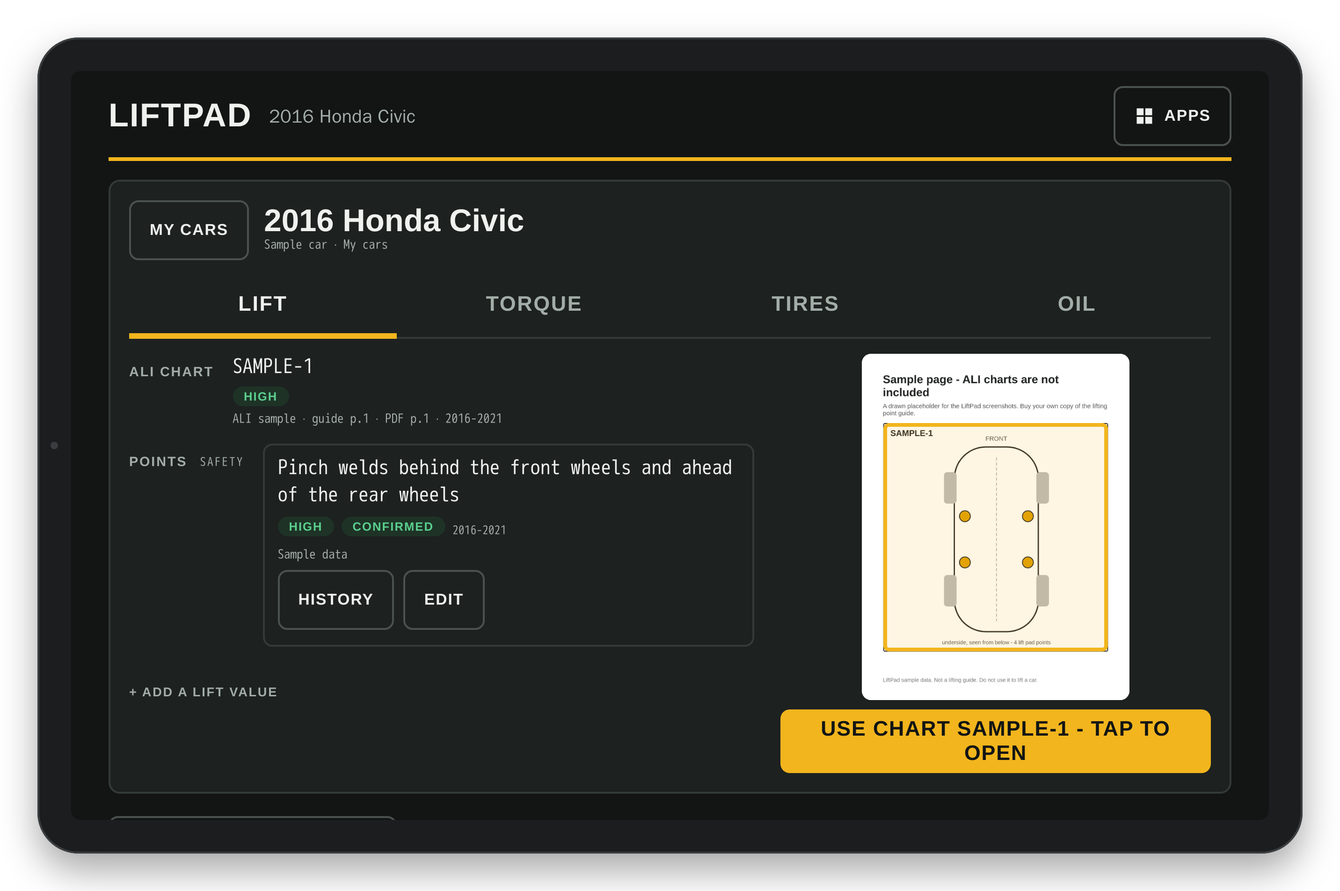
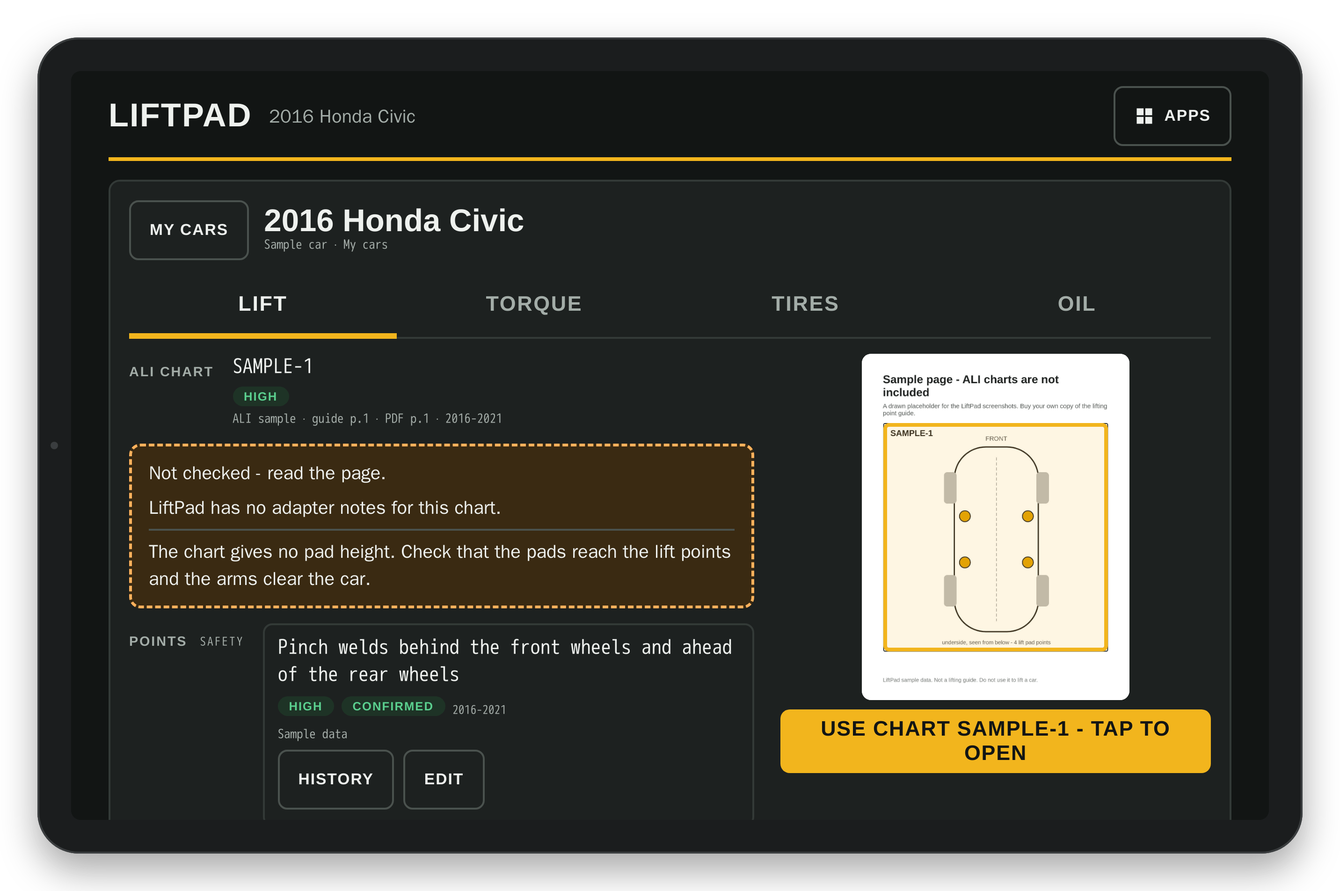
LiftPad: trim edit, chart check button, new Lift screenshot
Exported by the gate from private commit a9e70f1.

diff --git a/src/worker.js b/src/worker.js
@@ -165,8 +165,53 @@ async function vehicleRow(env, id) {
   return env.DB.prepare("SELECT *, strftime('%Y-%m-%dT%H:%M:%fZ', created) created_iso FROM vehicles WHERE id=?").bind(id).first();
 }
 // HANDOFF 12: the adapter notes of one chart, read only (rows come from the import). null = no row for the chart.
+// HANDOFF 13: the label "Checked by Rick" comes from chart_checks (append-only), not from the CSV level. It holds only while the
+// latest row for the chart is a check AND its hash equals the hash of the text now. Else the level is chart_notes.verified (no or ai).
+// A database before migration 0008 has no chart_checks table: the level is the column.
+async function textHash(n) {
+  const s = [n.adapters, n.height_note, n.cautions, n.kit_mark].map(x => x == null ? '' : String(x)).join('\u001f');
+  return [...new Uint8Array(await crypto.subtle.digest('SHA-256', new TextEncoder().encode(s)))].map(x => x.toString(16).padStart(2, '0')).join('');
+}
+async function latestCheck(env, edition, chart) {
+  try { return await env.DB.prepare('SELECT action, text_hash, who, at FROM chart_checks WHERE edition = ? AND chart = ? ORDER BY id DESC LIMIT 1').bind(edition, chart).first() || null; }
+  catch (e) { return null; }
+}
 async function chartNotes(env, edition, chart) {
-  return await env.DB.prepare('SELECT adapters, height_note, cautions, kit_mark, verified FROM chart_notes WHERE edition = ? AND chart = ?').bind(edition, chart).first() || null;
+  const n = await env.DB.prepare('SELECT edition, chart, adapters, height_note, cautions, kit_mark, verified FROM chart_notes WHERE edition = ? AND chart = ?').bind(edition, chart).first();
+  if (!n) return null;
+  n.verified = n.verified === 'ai' ? 'ai' : 'no';
+  n.verified_by = null; n.verified_at = null;
+  if (edition === 'all') return n;   // the fixed line under every block is never checked
+  const k = await latestCheck(env, edition, chart);
+  if (k && k.action === 'check' && k.text_hash === await textHash(n)) { n.verified = 'rick'; n.verified_by = k.who; n.verified_at = k.at; }
+  return n;
+}
+// action: check / undo add one row to chart_checks (nothing is changed or deleted). The self-test tool may also use
+// selftest_edit (change the text of its temp chart) and cleanup (remove its temp edition 'selftest' only).
+async function chartCheck(env, b, me) {
+  const edition = String(b.edition || ''), chart = String(b.chart || ''), action = String(b.action || '');
+  if (!edition || !chart || !['check', 'undo', 'cleanup', 'selftest_edit'].includes(action)) return bad('Need edition, chart and action check or undo');
+  const temp = edition === 'selftest';
+  const rick = !!me.email && !me.token;
+  if (me.processor || !(rick || (me.tool && temp))) return bad('Only Rick can mark a chart as checked', 403);
+  if (action === 'cleanup' || action === 'selftest_edit') {
+    if (!temp || !me.tool) return bad('This action is for the self-test tool on the self-test edition only', 403);
+    if (action === 'cleanup') {
+      await env.DB.batch([env.DB.prepare('DELETE FROM chart_notes WHERE edition = ?').bind(edition), env.DB.prepare('DELETE FROM chart_checks WHERE edition = ?').bind(edition)]);
+      return json({ ok: true });
+    }
+    await env.DB.prepare('UPDATE chart_notes SET adapters = ? WHERE edition = ? AND chart = ?').bind(String(b.adapters || '').slice(0, 200), edition, chart).run();
+    return json({ ok: true, chart_notes: await chartNotes(env, edition, chart) });
+  }
+  if (temp) await env.DB.prepare("INSERT OR IGNORE INTO chart_notes(edition, chart, adapters, verified) VALUES(?, ?, 'selftest', 'no')").bind(edition, chart).run();
+  const raw = await env.DB.prepare('SELECT edition, chart, adapters, height_note, cautions, kit_mark FROM chart_notes WHERE edition = ? AND chart = ?').bind(edition, chart).first();
+  if (!raw) return bad('No adapter notes for this chart', 404);
+  const now = await chartNotes(env, edition, chart), isRick = now.verified === 'rick';
+  if (action === 'check' && isRick) return json({ ok: true, changed: false, chart_notes: now });
+  if (action === 'undo' && !isRick) return bad('This chart is not checked by Rick now, so Undo does not apply', 409);
+  await env.DB.prepare('INSERT INTO chart_checks(edition, chart, text_hash, action, who, at) VALUES(?,?,?,?,?,?)').bind(edition, chart, await textHash(raw), action, me.email || me.device, me.now).run();
+  const history = (await env.DB.prepare('SELECT action, who, at FROM chart_checks WHERE edition = ? AND chart = ? ORDER BY id').bind(edition, chart).all()).results;
+  return json({ ok: true, changed: true, chart_notes: await chartNotes(env, edition, chart), history });
 }
 async function vehicle(env, id, me, touch) {
   const v = await vehicleRow(env, id);
@@ -184,9 +229,10 @@ async function vehicle(env, id, me, touch) {
   v.hidden = hidden(v, me.nowMs); v.mine = v.grp === 'mine' ? 1 : 0;
   return v;
 }
+const TRIM_MAX = 60;
 const modelKey = v => `model:${v.make}|${v.model}|${v.year}`;
 async function fieldByName(env, tab, name) {
-  return env.DB.prepare('SELECT f.id FROM fields f JOIN tabs t ON t.id = f.tab_id WHERE t.name=? AND f.name=?').bind(tab, name).first();
+  return env.DB.prepare('SELECT f.id, f.is_safety FROM fields f JOIN tabs t ON t.id = f.tab_id WHERE t.name=? AND f.name=?').bind(tab, name).first();
 }
 // A new value's id is above every id in vals AND in history, so the id of a deleted value is never
 // given again (a reused id would show the old value's history). Also used by tools/import.py.
@@ -252,6 +298,18 @@ async function queueJob(env, v, kind, wanted, me) {
     .bind(kind, modelKey(v), JSON.stringify(req), 'queued', me.now, me.now).first();
   return r.id;
 }
+// HANDOFF 13: a car that Rick adds, or whose trim he changes, gets a research job by itself for its missing fields. Not for the
+// self-test token (its test cars would cost real research), and not when a job for the car or model is still open (no duplicate).
+// The switch is the Worker variable LP_AUTO_RESEARCH ("1" = on). Default OFF (Rick, 2026-10-24): it is turned on only after the first
+// live run of the research worker on the 2022 Sonata has passed (see the release plan).
+async function openJob(env, v) {
+  return await env.DB.prepare("SELECT id FROM jobs WHERE target IN (?, ?) AND status IN ('queued','claimed') LIMIT 1").bind('car:' + v.id, modelKey(v)).first();
+}
+async function autoResearch(env, v, me) {
+  if (env.LP_AUTO_RESEARCH !== '1' || me.tool || me.processor || await openJob(env, v)) return null;
+  const miss = await missingFields(env, v);
+  return miss.length ? await queueJob(env, v, 'research', miss, me) : null;
+}
 async function claimJob(env, me, onlyId) {
   const until = new Date(me.nowMs + LEASE_MIN * 60e3).toISOString();
   const r = await env.DB.prepare(`UPDATE jobs SET status='claimed', claimed_by=?, lease_until=?, attempts=attempts+1, updated_at=?
@@ -272,6 +330,9 @@ async function jobResult(env, id, b, me) {
     if (!x || !String(x.value || '').trim() || !CONF.includes(x.confidence) || !String(x.source || '').trim()) return bad('Each value needs field, value, confidence and source');
     const f = await fieldByName(env, String(x.tab || ''), String(x.field || ''));
     if (!f) return bad(`Unknown field "${x.field}" on tab "${x.tab}"`);
+    // HANDOFF 13 (Rick, review finding b): the server does not trust the processor's confidence on a safety field. High needs a source
+    // that cites a page ("p.7-16", "p. 12", "PDF p.25"). Without it the whole result is refused and the job stays claimed.
+    if (f.is_safety && x.confidence === 'High' && !/\bp\.\s*\d/i.test(String(x.source))) return bad(`High on the safety field "${x.field}" needs a source that cites a page (p.)`);
     stmts.push(...insertValueStmts(env, { field_id: f.id, scope: 'model', make: rq.make, model: rq.model, year_from: rq.year, year_to: rq.year,
       value: String(x.value).trim(), confidence: x.confidence, source: x.source, note: x.note, status: 'proposed' }, me));
   }
@@ -287,7 +348,7 @@ export default {
     if (!p.startsWith('/api/')) return env.ASSETS.fetch(req);
     try {
       const me = await who(req, env);
-      if (p === '/api/health') { const n = await env.DB.prepare("SELECT (SELECT count(*) FROM ali_index) a, (SELECT count(*) FROM classics) c, (SELECT count(*) FROM vehicles) v, (SELECT count(*) FROM makes) m, (SELECT count(*) FROM vals) vals, (SELECT count(*) FROM vals WHERE status='proposed') proposed, (SELECT count(*) FROM jobs WHERE status IN ('queued','claimed')) jobs, (SELECT count(*) FROM ali_pages WHERE status='ok') pages, (SELECT count(*) FROM make_defaults) defaults, (SELECT count(*) FROM thread_ranges) ranges, (SELECT max(id) FROM schema_migrations) schema").first(); return json({ ok: true, ...n }); }
+      if (p === '/api/health') { const n = await env.DB.prepare("SELECT (SELECT count(*) FROM ali_index) a, (SELECT count(*) FROM classics) c, (SELECT count(*) FROM vehicles) v, (SELECT count(*) FROM makes) m, (SELECT count(*) FROM vals) vals, (SELECT count(*) FROM vals WHERE status='proposed') proposed, (SELECT count(*) FROM jobs WHERE status IN ('queued','claimed')) jobs, (SELECT count(*) FROM ali_pages WHERE status='ok') pages, (SELECT count(*) FROM make_defaults) defaults, (SELECT count(*) FROM thread_ranges) ranges, (SELECT max(id) FROM schema_migrations) schema").first(); return json({ ok: true, ...n, auto_research: env.LP_AUTO_RESEARCH === '1' ? 1 : 0 }); }
       // ALI page images (decision 4): the list from ali_pages, and each image from the private bucket.
       if (p === '/api/ali/pages' && m === 'GET') {
         const ed = url.searchParams.get('edition');
@@ -303,6 +364,9 @@ export default {
         const h = { 'content-type': 'image/jpeg', 'content-length': String(o.size), 'cache-control': 'private, max-age=604800', etag: o.httpEtag };
         return new Response(m === 'HEAD' ? null : o.body, { headers: h });
       }
+      // HANDOFF 13: "I checked this chart" and "Undo". Only Rick's own Access login (an email, no service token) may do it.
+      // The self-test tool token may do it only on the temp edition 'selftest', which it creates and removes itself.
+      if (p === '/api/chart-checks' && m === 'POST') return chartCheck(env, await req.json(), me);
       if (p === '/api/ali/boxes' && m === 'PUT') return setBox(env, await req.json(), me);
       if (p === '/api/ali/boxes' && m === 'DELETE') {
         if (me.processor) return bad('The processor cannot change chart boxes', 403);
@@ -373,14 +437,27 @@ export default {
         const grp = GROUPS.includes(b.grp) ? b.grp : (b.mine === true ? 'mine' : 'visitor');
         const r = await env.DB.prepare('INSERT INTO vehicles(year, make, model, trim, vin, mine, grp, last_seen) VALUES(?,?,?,?,?,?,?,?) RETURNING id')
           .bind(year, b.make, b.model, b.trim || '', b.vin || '', grp === 'mine' ? 1 : 0, grp, me.now).first();
+        await autoResearch(env, await vehicleRow(env, r.id), me);
         return json(await vehicle(env, r.id, me, false), 201);
       }
       let mm = p.match(/^\/api\/vehicles\/(\d+)$/);
       // Decision 11: the VIN is on the car record only and goes to NHTSA only - never to the processor.
-      if (mm && m === 'GET') { const v = await vehicle(env, +mm[1], me, url.searchParams.get('peek') !== '1'); if (v && me.processor) { delete v.vin; delete v.chart_notes; delete v.chart_notes_footer; } return v ? json(v) : bad('Car not found', 404); }
+      if (mm && m === 'GET') { const v = await vehicle(env, +mm[1], me, url.searchParams.get('peek') !== '1'); if (v && me.processor) { delete v.vin; delete v.notes; delete v.chart_notes; delete v.chart_notes_footer; } return v ? json(v) : bad('Car not found', 404); }
       if (mm && m === 'PATCH') {
         const b = await req.json(); const v = await vehicleRow(env, +mm[1]);
         if (!v) return bad('Car not found', 404);
+        // HANDOFF 13: Rick edits the trim. The change is logged as a dated line in vehicles.notes (no new table);
+        // the processor never reads that column and never changes the trim.
+        if ('trim' in b && !('grp' in b) && !('vin' in b)) {
+          if (me.processor) return bad('The processor cannot change a trim', 403);
+          const trim = String(b.trim || '').trim();
+          if (trim.length > TRIM_MAX || /[\u0000-\u001f]/.test(trim)) return bad(`A trim has at most ${TRIM_MAX} characters and no control characters`);
+          if (trim === (v.trim || '')) return json({ ok: true, trim, changed: false });
+          const line = `${me.now.slice(0, 10)} trim "${v.trim || ''}" -> "${trim}" (${me.device})`;
+          await env.DB.prepare("UPDATE vehicles SET trim=?, notes=CASE WHEN notes IS NULL OR notes='' THEN ? ELSE notes || char(10) || ? END WHERE id=?").bind(trim, line, line, v.id).run();
+          const research_job = await autoResearch(env, { ...v, trim }, me);
+          return json({ ok: true, trim, changed: true, research_job });
+        }
         if ('vin' in b && !('grp' in b)) {
           if (me.processor) return bad('The processor cannot change a VIN', 403);
           const vin = String(b.vin || '').trim().toUpperCase();
@@ -392,7 +469,7 @@ export default {
         await env.DB.prepare('UPDATE vehicles SET grp=?, mine=? WHERE id=?').bind(b.grp, b.grp === 'mine' ? 1 : 0, v.id).run();
         let job = null;
         // Decision 5: marking a car Frequent queues a workup for every missing field.
-        if (b.grp === 'frequent' && v.grp !== 'frequent') { const miss = await missingFields(env, v); if (miss.length) job = await queueJob(env, v, 'workup', miss, me); }
+        if (b.grp === 'frequent' && v.grp !== 'frequent' && !await openJob(env, v)) { const miss = await missingFields(env, v); if (miss.length) job = await queueJob(env, v, 'workup', miss, me); }
         return json({ ok: true, workup_job: job });
       }
       if (mm && m === 'DELETE') {
@@ -477,6 +554,14 @@ export default {
       }
       mm = p.match(/^\/api\/jobs\/(\d+)\/result$/);
       if (mm && m === 'POST') return jobResult(env, +mm[1], await req.json(), me);
+      // HANDOFF 13: the research worker keeps a long job: renew the lease before it runs out (same claimer, lease still valid).
+      mm = p.match(/^\/api\/jobs\/(\d+)\/renew$/);
+      if (mm && m === 'POST') {
+        const until = new Date(me.nowMs + LEASE_MIN * 60e3).toISOString();
+        const r = await env.DB.prepare("UPDATE jobs SET lease_until=?, updated_at=? WHERE id=? AND status='claimed' AND claimed_by=? AND lease_until > ? RETURNING id, lease_until")
+          .bind(until, me.now, +mm[1], me.token, me.now).first();
+        return r ? json(r) : bad('This job is not claimed by you, or the lease ran out. Claim it again.', 409);
+      }
       mm = p.match(/^\/api\/jobs\/(\d+)\/fail$/);
       if (mm && m === 'POST') {
         const b = await req.json().catch(() => ({}));

diff --git a/test/selftest.js b/test/selftest.js
@@ -375,6 +375,84 @@ await t('VIN: a bad VIN is refused, a good one is saved; the processor never see
   if (hasProc) { const pv = (await call(`/api/vehicles/${car}?peek=1`, { as: 'proc' })).d; ok(pv && !('vin' in pv), 'the processor got the VIN'); }
   ok((await call(`/api/vehicles/${car}`, { method: 'PATCH', body: { vin: '' } })).s === 200, 'clear');
 });
+// HANDOFF 13: Rick edits the trim; the change is logged with its date; the processor can neither change it nor read the log.
+await t('trim edit: saved, logged, same value is no change, too long refused; the processor gets 403 and no notes', async () => {
+  const r1 = await call(`/api/vehicles/${car}`, { method: 'PATCH', body: { trim: '  SELFTEST EDIT  ' } }); ok(r1.s === 200 && r1.d.trim === 'SELFTEST EDIT' && r1.d.changed === true, JSON.stringify(r1.d));
+  const v = (await call(`/api/vehicles/${car}?peek=1`)).d; ok(v.trim === 'SELFTEST EDIT', 'trim not saved: ' + v.trim);
+  ok(/^\d{4}-\d\d-\d\d trim ".*" -> "SELFTEST EDIT"/m.test(v.notes || ''), 'no dated log line: ' + JSON.stringify(v.notes));
+  const r2 = await call(`/api/vehicles/${car}`, { method: 'PATCH', body: { trim: 'SELFTEST EDIT' } }); ok(r2.s === 200 && r2.d.changed === false, 'same trim made a change');
+  ok(((await call(`/api/vehicles/${car}?peek=1`)).d.notes || '').split('\n').length === (v.notes || '').split('\n').length, 'same trim added a log line');
+  ok((await call(`/api/vehicles/${car}`, { method: 'PATCH', body: { trim: 'x'.repeat(61) } })).s === 400, 'a 61-character trim was accepted');
+  if (hasProc) {
+    ok((await call(`/api/vehicles/${car}`, { as: 'proc', method: 'PATCH', body: { trim: 'PROC' } })).s === 403, 'the processor changed the trim');
+    const pv = (await call(`/api/vehicles/${car}?peek=1`, { as: 'proc' })).d; ok(pv && !('notes' in pv), 'the processor got the notes');
+  }
+  ok((await call(`/api/vehicles/${car}`, { method: 'PATCH', body: { trim: 'SELFTEST' } })).s === 200, 'restore');
+});
+// HANDOFF 13: a car that Rick adds, or whose trim he changes, gets a research job by itself (his own login: a phone here). The self-test
+// token never does (its test cars would cost real research); an open job for the model stops a second one. Local run only.
+// The switch (Worker variable LP_AUTO_RESEARCH, default OFF) is reported by /api/health. Live must stay 0 until Rick turns it on.
+await t('auto research switch: /api/health reports it as 0 or 1', async () => { ok(health.auto_research === 0 || health.auto_research === 1, 'auto_research: ' + JSON.stringify(health.auto_research)); return 'auto_research ' + health.auto_research; });
+if (LOCAL && hasProc && health.auto_research === 0) await t('auto research OFF (the default): Rick adds a car and changes its trim -> no job', async () => {
+  const bad2 = [], ids = [];
+  try {
+    const a = await call('/api/vehicles', { as: 'phone', method: 'POST', body: { year: 1973, make: 'AMC', model: 'Hornet Off', trim: 'SELFTEST OFF', grp: 'visitor' } }); ids.push(a.d.id);
+    if (!(a.s === 201 && a.d.jobs.length === 0)) bad2.push('a job was made with the switch off: ' + JSON.stringify(a.d.jobs));
+    const t1 = await call(`/api/vehicles/${a.d.id}`, { as: 'phone', method: 'PATCH', body: { trim: 'SELFTEST OFF 2' } });
+    if (!(t1.s === 200 && t1.d.changed === true && t1.d.research_job === null)) bad2.push('a trim change made a job: ' + JSON.stringify(t1.d));
+  } finally { for (const id of ids) { const d = await call('/api/vehicles/' + id, { method: 'DELETE' }); if (d.s !== 200) bad2.push('cleanup ' + d.s); } }
+  ok(!bad2.length, bad2.join('; '));
+});
+if (LOCAL && hasProc && health.auto_research === 1) await t('auto research ON: Rick adds a car or changes its trim -> one research job; the tool token -> none; no duplicate', async () => {
+  const bad2 = [], ids = [], mk = trim => ({ year: 1973, make: 'AMC', model: 'Hornet Auto', trim, grp: 'visitor' });
+  const jobsOf = async id => (await call(`/api/vehicles/${id}?peek=1`)).d.jobs;
+  try {
+    const a = await call('/api/vehicles', { as: 'phone', method: 'POST', body: mk('SELFTEST AUTO') }); ids.push(a.d.id);
+    if (!(a.s === 201 && a.d.jobs.length === 1 && a.d.jobs[0].kind === 'research' && a.d.jobs[0].status === 'queued')) bad2.push('Rick adds a car: ' + a.s + ' ' + JSON.stringify(a.d.jobs));
+    const t1 = await call(`/api/vehicles/${a.d.id}`, { as: 'phone', method: 'PATCH', body: { trim: 'SELFTEST AUTO 2' } });
+    if (!(t1.s === 200 && t1.d.changed === true && t1.d.research_job === null)) bad2.push('open job, trim change made a second job: ' + JSON.stringify(t1.d));
+    if ((await jobsOf(a.d.id)).length !== 1) bad2.push('job count after the trim change: ' + (await jobsOf(a.d.id)).length);
+    const b = await call('/api/vehicles', { method: 'POST', body: { ...mk('SELFTEST AUTO TOOL'), model: 'Hornet Tool' } }); ids.push(b.d.id);
+    if (!(b.s === 201 && b.d.jobs.length === 0)) bad2.push('the tool token got a job: ' + JSON.stringify(b.d.jobs));
+    const t2 = await call(`/api/vehicles/${b.d.id}`, { as: 'phone', method: 'PATCH', body: { trim: 'SELFTEST AUTO TOOL 2' } });
+    if (!(t2.s === 200 && Number.isInteger(t2.d.research_job))) bad2.push('Rick changes the trim, no open job: ' + JSON.stringify(t2.d));
+    const t3 = await call(`/api/vehicles/${b.d.id}`, { as: 'phone', method: 'PATCH', body: { trim: 'SELFTEST AUTO TOOL 2' } });
+    if (!(t3.s === 200 && t3.d.changed === false && t3.d.research_job === undefined)) bad2.push('same trim made a job: ' + JSON.stringify(t3.d));
+    const tj = await call(`/api/vehicles/${b.d.id}`, { method: 'PATCH', body: { trim: 'SELFTEST AUTO TOOL 3' } });
+    if (!(tj.s === 200 && tj.d.research_job === null)) bad2.push('tool token trim change made a job: ' + JSON.stringify(tj.d));
+  } finally {
+    for (const id of ids) {
+      for (const j of await jobsOf(id).catch(() => [])) { await call('/api/jobs/claim', { as: 'proc', method: 'POST', body: { only_id: j.id } }); await call(`/api/jobs/${j.id}/fail`, { as: 'proc', method: 'POST', body: { error: 'selftest cleanup' } }); }
+      const d = await call('/api/vehicles/' + id, { method: 'DELETE' }); if (d.s !== 200) bad2.push('cleanup ' + d.s);
+    }
+  }
+  ok(!bad2.length, bad2.join('; '));
+});
+// HANDOFF 13: "I checked this chart" and "Undo". Rick's login (a phone here) can do it; the tool token only on the temp edition
+// 'selftest'; the processor never. The temp row is made and removed by the endpoint itself.
+if (health.schema >= '0008') {
+  const CK = { edition: 'selftest', chart: 'selftest-a' }, ck = (action, o = {}) => call('/api/chart-checks', { method: 'POST', body: { ...CK, action }, ...o });
+  await t('chart check: check, undo, who and when; refused for others', async () => {
+    const bad2 = [];
+    try {
+      const a = await ck('check'); if (!(a.s === 200 && a.d.chart_notes.verified === 'rick' && a.d.chart_notes.verified_by && a.d.chart_notes.verified_at && a.d.history.length === 1)) bad2.push('check: ' + a.s + ' ' + JSON.stringify(a.d));
+      const a2 = await ck('check'); if (!(a2.s === 200 && a2.d.changed === false)) bad2.push('second check: ' + JSON.stringify(a2.d));
+      const u = await ck('undo'); if (!(u.s === 200 && u.d.chart_notes.verified === 'no' && u.d.chart_notes.verified_by === null && u.d.history.map(h => h.action).join() === 'check,undo')) bad2.push('undo: ' + u.s + ' ' + JSON.stringify(u.d));
+      const u2 = await ck('undo'); if (u2.s !== 409) bad2.push('second undo: ' + u2.s);
+      if (hasProc) { const p = await ck('check', { as: 'proc' }); if (p.s !== 403) bad2.push('processor: ' + p.s); }
+      const real = await call('/api/chart-checks', { method: 'POST', body: { edition: '2026', chart: 'any-chart', action: 'check' } }); if (real.s !== 403) bad2.push('tool token on a real chart: ' + real.s);
+      if (LOCAL) {
+        // Rick's own login (a phone here): who is his email; a changed text makes the label fall back by itself; history is kept.
+        const ph = await ck('check', { as: 'phone' }); if (!(ph.s === 200 && ph.d.chart_notes.verified === 'rick' && ph.d.chart_notes.verified_by === 'owner@example.com')) bad2.push('phone check: ' + ph.s + ' ' + JSON.stringify(ph.d));
+        const ed = await ck('selftest_edit', { body: { ...CK, action: 'selftest_edit', adapters: 'selftest text changed' } }); if (!(ed.s === 200 && ed.d.chart_notes.verified === 'no')) bad2.push('text change did not drop the label: ' + ed.s + ' ' + JSON.stringify(ed.d));
+        const ph2 = await ck('check', { as: 'phone' }); if (!(ph2.s === 200 && ph2.d.chart_notes.verified === 'rick' && ph2.d.history.length === 4)) bad2.push('check after the change: ' + ph2.s + ' ' + JSON.stringify(ph2.d));
+        const pu = await ck('undo', { as: 'phone' }); if (!(pu.s === 200 && pu.d.chart_notes.verified === 'no' && pu.d.history.map(h => h.action).join() === 'check,undo,check,check,undo')) bad2.push('phone undo: ' + pu.s + ' ' + JSON.stringify(pu.d.history));
+        const pe = await ck('selftest_edit', { as: 'phone', body: { ...CK, action: 'selftest_edit', adapters: 'x' } }); if (pe.s !== 403) bad2.push('phone ran a self-test action: ' + pe.s);
+      }
+    } finally { const c = await ck('cleanup'); if (c.s !== 200) bad2.push('cleanup ' + c.s); }
+    ok(!bad2.length, bad2.join('; '));
+  });
+} else skip('chart check: check, undo, who and when; refused for others', 'schema before 0008');
 // Decision 9: the make's typical value and the thread range; a torque outside the range is flagged.
 if (health.defaults > 0 && health.ranges > 0) {
   await t('the car gets the typical value for its make and the range for that thread', async () => {
@@ -416,6 +494,11 @@ if (hasProc) {
   await t('lease expiry: after 10 minutes (test clock) the job is claimed again', async () => {
     const { d } = await call('/api/jobs/claim', { as: 'proc', now: plus(11 * MIN), method: 'POST', body: { only_id: job } }); ok(d.id === job && d.attempts === 2 && d.lease_until > lease, JSON.stringify(d));
   });
+  await t('lease renew (HANDOFF 13): extends a valid lease, refused after expiry, refused for the self-test tool', async () => {
+    const r1 = await call(`/api/jobs/${job}/renew`, { as: 'proc', now: plus(15 * MIN), method: 'POST', body: {} }); ok(r1.s === 200 && r1.d.lease_until > plus(24 * MIN), JSON.stringify(r1.d));
+    const r2 = await call(`/api/jobs/${job}/renew`, { as: 'proc', now: plus(60 * MIN), method: 'POST', body: {} }); ok(r2.s === 409, 'expired lease renewed: ' + r2.s);
+    const r3 = await call(`/api/jobs/${job}/renew`, { method: 'POST', body: {} }); ok(r3.s === 403, 'tool token renewed: ' + r3.s);
+  });
   await t('result: values come back proposed, with history, job done', async () => {
     const r = await call(`/api/jobs/${job}/result`, { as: 'proc', method: 'POST', body: { values: [{ tab: 'tires', field: 'Size', value: 'E78-14 (selftest)', confidence: 'Low', source: 'selftest research' }] } });
     ok(r.s === 200 && r.d.proposed === 1, 'result ' + r.s + ' ' + JSON.stringify(r.d));
@@ -431,8 +514,29 @@ if (hasProc) {
     ok((await call(`/api/jobs/${job2}/fail`, { as: 'proc', method: 'POST', body: { error: 'selftest' } })).s === 200, 'fail');
     ok((await call(`/api/vehicles/${car}?peek=1`)).d.jobs.find(j => j.id === job2)?.status === 'failed', 'not failed');
   });
+  // HANDOFF 13 (Rick): the server refuses High on a safety field from the processor unless the source cites a page ("p.").
+  await t('result: High on a safety field needs a source with a page (p.); the whole result is refused otherwise', async () => {
+    const job3 = (await call('/api/jobs', { method: 'POST', body: { vehicle_id: car, kind: 'research', fields: [{ tab: 'torque', field: 'Torque' }] } })).d.id;
+    ok((await call('/api/jobs/claim', { as: 'proc', method: 'POST', body: { only_id: job3 } })).d.id === job3, 'claim');
+    const mk = (conf, source) => ({ values: [{ tab: 'torque', field: 'Torque', value: '75 ft-lb (102 Nm)', confidence: conf, source }] });
+    const bad1 = await call(`/api/jobs/${job3}/result`, { as: 'proc', method: 'POST', body: mk('High', 'selftest research, no page') });
+    ok(bad1.s === 400 && /page/.test(bad1.d.error || ''), 'High without a page: ' + bad1.s + ' ' + JSON.stringify(bad1.d));
+    ok(!(await call(`/api/vehicles/${car}?peek=1`)).d.values.some(y => y.source === 'selftest research, no page'), 'a value was stored by the refused result');
+    const web = await call(`/api/jobs/${job3}/result`, { as: 'proc', method: 'POST', body: mk('High', 'https://example.com/p.html') });
+    ok(web.s === 400, 'High with a URL that only looks like a page: ' + web.s);
+    const low = await call(`/api/jobs/${job3}/result`, { as: 'proc', method: 'POST', body: { values: [{ tab: 'torque', field: 'Socket', value: '19 mm (selftest)', confidence: 'High', source: 'selftest research, no page' }] } });
+    ok(low.s === 200, 'High on a field that is not a safety field: ' + low.s + ' ' + JSON.stringify(low.d));
+    const j4 = (await call('/api/jobs', { method: 'POST', body: { vehicle_id: car, kind: 'research', fields: [{ tab: 'torque', field: 'Torque' }] } })).d.id;
+    ok((await call('/api/jobs/claim', { as: 'proc', method: 'POST', body: { only_id: j4 } })).d.id === j4, 'claim 4');
+    const good = await call(`/api/jobs/${j4}/result`, { as: 'proc', method: 'POST', body: mk('High', 'Owner manual p.7-16 (selftest)') });
+    ok(good.s === 200 && good.d.proposed === 1, 'High with a page: ' + good.s + ' ' + JSON.stringify(good.d));
+    const v = (await call(`/api/vehicles/${car}?peek=1`)).d.values;
+    for (const y of v.filter(z => /selftest/.test(z.source || '') && z.entered_by === 'processor' && !cleanup.some(c => c[1] === z.id))) cleanup.push(['val', y.id]);
+  });
 } else ['claim: 10-minute lease, request is private', 'a claimed job is not handed out again while its lease runs', 'lease expiry: after 10 minutes (test clock) the job is claimed again',
-  'result: values come back proposed, with history, job done', 'a result for a job that is not claimed is refused', 'fail: a claimed job can be marked failed'].forEach(n => skip(n, 'no processor token given'));
+  'lease renew (HANDOFF 13): extends a valid lease, refused after expiry, refused for the self-test tool',
+  'result: values come back proposed, with history, job done', 'a result for a job that is not claimed is refused', 'fail: a claimed job can be marked failed',
+  'result: High on a safety field needs a source with a page (p.); the whole result is refused otherwise'].forEach(n => skip(n, 'no processor token given'));
 
 // ---------- groups and visitor hiding (decisions 4, 5) ----------
 await t('opening a car sets last_seen; a visitor hides after 30 days (test clock)', async () => {

diff --git a/public/app.js b/public/app.js
@@ -150,7 +150,7 @@ function add() {
   const show = async () => {
     const R = $('#res');
     if (!st.make || !st.year || !st.model) { R.innerHTML = `<h2>${esc([st.year || '', st.make].join(' ').trim() || 'Pick a car')}</h2><p class="note">${st.make ? (st.year ? 'Pick a model.' : 'Type the 4-digit year.') : 'Type a make.'}</p>`; return; }
-    R.innerHTML = `<h2>${st.year} ${esc(st.make)} ${esc(st.model)}</h2><p class="note">${st.chartNote || ''}</p><button class="primary" id="save">Save car</button><p class="err" id="saveerr"></p>`;
+    R.innerHTML = `<h2>${st.year} ${esc(st.make)} ${esc(st.model)}</h2><p class="note">${esc(st.chartNote || '')}</p><button class="primary" id="save">Save car</button><p class="err" id="saveerr"></p>`;
     $('#save').onclick = async () => {
       try { const v = await api('/vehicles', { method: 'POST', body: { ...st, trim: $('#trim').value.trim(), grp: $('#grp [aria-pressed="true"]').dataset.grp } }); location.hash = '#/car/' + v.id; }
       catch (e) { $('#saveerr').textContent = e.message; }
@@ -191,7 +191,12 @@ const VERIFIED = { no: 'Not checked - read the page.', ai: 'AI-checked - the pag
 const FOOT_FALLBACK = 'The chart gives no pad height. Check that the pads reach the lift points and the arms clear the car.';
 const adaptersBlock = (n, foot) => {
   const lv = n && VERIFIED[n.verified] ? n.verified : 'no', stop = !!n && /^Do not use a 2-post/.test(n.kit_mark || '');
-  const lead = `<div class="vlabel"><b>${VERIFIED[lv]}</b></div>`;
+  // HANDOFF 13: "I checked this chart" until Rick has checked it; "Undo" while the check holds (it falls back by itself
+  // when the chart text changes). Who and when come from chart_checks.
+  const byBtn = !!n && lv === 'rick' && !!n.verified_by;
+  const act = !n ? '' : lv !== 'rick' ? `<button class="primary chartcheck" data-act="check" data-ed="${esc(n.edition)}" data-chart="${esc(n.chart)}">I checked this chart</button>`
+    : byBtn ? `<button class="chartcheck" data-act="undo" data-ed="${esc(n.edition)}" data-chart="${esc(n.chart)}">Undo</button>` : '';
+  const lead = `<div class="vlabel"><b>${VERIFIED[lv]}</b>${byBtn ? ` <span class="note">${esc(String(n.verified_at || '').slice(0, 10))}</span>` : ''} ${act}<span class="err chartcheckerr"></span></div>`;
   const end = `<div class="adfoot">${esc(foot || FOOT_FALLBACK)}</div>`;
   if (!n) return { stop: false, html: `<div class="adapters unchecked" data-verified="no">${lead}<div>LiftPad has no adapter notes for this chart.</div>${end}</div>` };
   return { stop, html: `<div class="adapters${lv === 'no' ? ' unchecked' : ''}${stop ? ' stop' : ''}" data-verified="${lv}" data-kit="${stop ? 'stop' : 'note'}">
@@ -277,6 +282,9 @@ async function car(id) {
   </section>
   <div class="row"><button id="research">Research missing values</button>${jobLine}</div>
   <div class="row">${Object.keys(GROUP).filter(g => g !== v.grp).map(g => `<button class="ghost" data-g="${g}">Move to ${GROUP[g]}</button>`).join('')}</div>
+  <div class="card" id="trimbox"><div><span class="lbl">Trim</span> <span class="val" id="trimnow">${esc(v.trim || 'none')}</span></div>
+    <div class="row"><input id="trimin" maxlength="60" autocomplete="off" placeholder="for example SE or Limited" aria-label="Trim" value="${esc(v.trim || '')}"><button id="trimsave">Save trim</button></div>
+    <p class="note">The trim goes into the research request. A change is logged with its date.</p><p class="err" id="trimerr"></p></div>
   <div class="card" id="vinbox"><div><span class="lbl">VIN</span> <span class="val" id="vinnow">${esc(v.vin || 'none')}</span></div>
     <div class="row"><input id="vinin" maxlength="17" autocomplete="off" placeholder="17 characters" aria-label="VIN" style="font-family:var(--mono)" value="${esc(v.vin || '')}"><button id="vinsave">Save VIN</button>${scanButton('vinscan')}</div>
     <p class="note">The VIN stays on this car and goes only to NHTSA, to decode the engine and the EV flag.</p><p class="err" id="vinerr"></p></div>
@@ -286,7 +294,7 @@ async function car(id) {
   document.querySelectorAll('[data-h]').forEach(b => b.onclick = async () => {
     const box = b.closest('dd').querySelector('.hist');
     const h = await api(`/values/${b.dataset.h}/history`);
-    box.innerHTML = `<ol class="src">${h.map(r => `<li>${when(r.at)} · ${esc(r.device)} · ${r.action}${r.old_value != null && r.old_value !== r.new_value ? ` · "${esc(r.old_value)}" → "${esc(r.new_value ?? '')}"` : r.new_value != null ? ` · "${esc(r.new_value)}"` : ''}${r.old_status !== r.new_status ? ` · ${esc(r.old_status ?? '')} → ${esc(r.new_status ?? '')}` : ''}</li>`).join('')}</ol>`;
+    box.innerHTML = `<ol class="src">${h.map(r => `<li>${when(r.at)} · ${esc(r.device)} · ${esc(r.action)}${r.old_value != null && r.old_value !== r.new_value ? ` · "${esc(r.old_value)}" → "${esc(r.new_value ?? '')}"` : r.new_value != null ? ` · "${esc(r.new_value)}"` : ''}${r.old_status !== r.new_status ? ` · ${esc(r.old_status ?? '')} → ${esc(r.new_status ?? '')}` : ''}</li>`).join('')}</ol>`;
   });
   wireValueInputs($('#addspec form'));
   document.querySelectorAll('.links a[data-src]').forEach(a => a.addEventListener('click', () => {
@@ -299,7 +307,10 @@ async function car(id) {
     const s = v.values.find(x => x.id == b.dataset.e); const dd = b.closest('dd'); dd.innerHTML = editForm(s);
     wireForm(dd.querySelector('form'), body => api('/values/' + s.id, { method: 'PATCH', body }).then(() => car(id)), () => api('/values/' + s.id, { method: 'DELETE' }).then(() => car(id)));
   });
-  $('#vinsave').onclick = () => api('/vehicles/' + id, { method: 'PATCH', body: { vin: $('#vinin').value } }).then(() => car(id)).catch(e => { $('#vinerr').textContent = e.message; });
+  document.querySelectorAll('.chartcheck').forEach(b => b.onclick = () => api('/chart-checks', { method: 'POST', body: { edition: b.dataset.ed, chart: b.dataset.chart, action: b.dataset.act } })
+    .then(() => car(id)).catch(e => { b.parentElement.querySelector('.chartcheckerr').textContent = e.message; }));
+  $('#trimsave').onclick =() => api('/vehicles/' + id, { method: 'PATCH', body: { trim: $('#trimin').value } }).then(() => car(id)).catch(e => { $('#trimerr').textContent = e.message; });
+  $('#vinsave').onclick =() => api('/vehicles/' + id, { method: 'PATCH', body: { vin: $('#vinin').value } }).then(() => car(id)).catch(e => { $('#vinerr').textContent = e.message; });
   wireScan('vinscan', vin => { $('#vinin').value = vin; $('#vinerr').textContent = 'VIN read from the photo - check it, then Save VIN.'; }, m => { $('#vinerr').textContent = m; });
   document.querySelectorAll('[data-g]').forEach(b => b.onclick = () => api('/vehicles/' + id, { method: 'PATCH', body: { grp: b.dataset.g } }).then(() => car(id)).catch(fail));
   $('#research').onclick = () => api('/jobs', { method: 'POST', body: { vehicle_id: +id, kind: 'research' } }).then(() => car(id)).catch(e => { $('#delmsg').textContent = e.message; });

diff --git a/public/app.css b/public/app.css
@@ -117,7 +117,8 @@ dd.v-confirmed{border:2px solid var(--line);border-radius:10px;padding:10px 14px
 .tag{font:500 .8rem var(--mono);color:var(--muted);margin-left:8px}
 .warn{border:3px solid var(--warn);background:var(--warn-bg);padding:14px 18px;border-radius:12px}
 .warn.bad{border-color:var(--lo);background:var(--lo-bg)}
-.adapters{display:grid;gap:8px;border:3px solid var(--line2);border-radius:12px;padding:14px 18px}   /* HANDOFF 12: adapter notes of the chart; no buttons, body-size text */
+.adapters{display:grid;gap:8px;border:3px solid var(--line2);border-radius:12px;padding:14px 18px}   /* HANDOFF 12: adapter notes of the chart, body-size text; HANDOFF 13 adds one button (64 px target, words) */
+.chartcheck{min-height:64px;min-width:64px;padding:0 20px;margin-left:12px}
 .adapters.unchecked{border-style:dashed;border-color:var(--warn);background:var(--warn-bg)}
 .adapters.stop{border-style:solid;border-color:var(--lo);background:var(--lo-bg)}   /* "Do not use a 2-post": red, first on the tab */
 .stopline{font-size:1.25rem}
